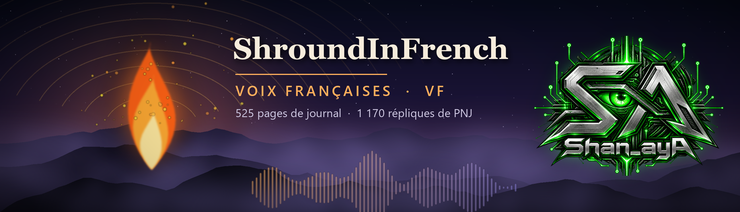
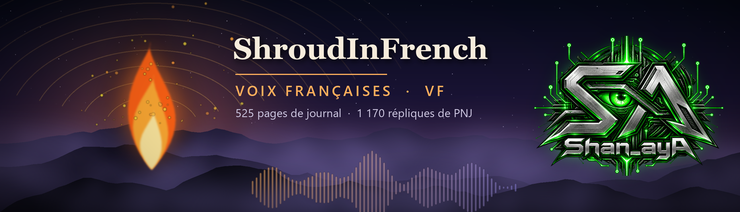
Renommage : le mod s'appelle ShroudInFrench (et non ShroundInFrench)
Sources, spec PyInstaller, README, notices et banniere alignes sur le nom ShroudInFrench.

Changed region(s): [[0.4351, 0.1698, 0.6838, 0.283]]

diff --git a/installer/shroud_installer.py b/installer/shroud_installer.py
@@ -1,7 +1,7 @@
 """Installateur LÉGER de la VF d'Enshrouded (voix françaises, emplacement « Français (VF) » du menu Langue du doublage).
 Interface française. Ne contient AUCUN fichier audio ni emm.exe : il utilise les archives téléchargées sur Nexus Mods
 (fichier principal = pages de journal ; complément optionnel = répliques des personnages) et l'outil emm.exe d'EML (GitHub).
-Il trouve le jeu (Steam), les archives et emm.exe, décompresse le mod dans <jeu>\\mods\\ShroundInFrench, applique le patch
+Il trouve le jeu (Steam), les archives et emm.exe, décompresse le mod dans <jeu>\\mods\\ShroudInFrench, applique le patch
 (emm.exe run -p) ou restaure l'original. Aucun accès réseau ; rien n'est modifié hors du dossier du jeu."""
 import json, os, re, shutil, subprocess, sys, threading, time, webbrowser, zipfile
 import tkinter as tk
@@ -9,7 +9,7 @@ from tkinter import filedialog, messagebox, scrolledtext, ttk
 
 VERSION = "2.0"
 APPID = "1203620"
-MOD_NAME = "ShroundInFrench"
+MOD_NAME = "ShroudInFrench"
 MOD_PREFIX = f"mods/{MOD_NAME}/"
 TESTED_BUILD = "26082781"   # build Steam (appmanifest) sur lequel la VF a été validée (version interne du jeu : 1273043)
 EML_URL = "https://github.com/Brabb3l/kfc-parser/releases"
@@ -30,7 +30,7 @@ IMPORTANT
 - Si l'installateur dit que la sauvegarde est périmée : Steam → clic droit sur Enshrouded → Propriétés → Fichiers installés → « Vérifier l'intégrité des fichiers du jeu », puis relancez l'installateur.
 
 CE QU'IL FAUT TÉLÉCHARGER
-- Sur Nexus Mods : le fichier principal « ShroundInFrench » (pages de journal) et, si vous voulez la voix des personnages, le fichier optionnel « PNJ ». Laissez les .zip tels quels dans « Téléchargements » : l'installateur les trouve seul (sinon « Parcourir… »).
+- Sur Nexus Mods : le fichier principal « ShroudInFrench » (pages de journal) et, si vous voulez la voix des personnages, le fichier optionnel « PNJ ». Laissez les .zip tels quels dans « Téléchargements » : l'installateur les trouve seul (sinon « Parcourir… »).
 - emm.exe (outil d'EML, par Brabb3l) : bouton « Où le télécharger ? » → GitHub → dernière version → « Assets » → emm.exe.
 """
 
@@ -110,7 +110,7 @@ def search_dirs(game=None):
 
 
 def zip_kind(path):
-    """'main' (contient mods/ShroundInFrench/mod.json), 'pnj' (fichiers n*.fqoa seuls) ou None. Lit seulement l'index du zip (rapide)."""
+    """'main' (contient mods/ShroudInFrench/mod.json), 'pnj' (fichiers n*.fqoa seuls) ou None. Lit seulement l'index du zip (rapide)."""
     try:
         with zipfile.ZipFile(path) as z:
             names = z.namelist()
@@ -155,7 +155,7 @@ def find_emm(game=None):
 
 
 def safe_members(z):
-    """Entrées du zip autorisées : uniquement sous mods/ShroundInFrench/, sans « .. » ni chemin absolu."""
+    """Entrées du zip autorisées : uniquement sous mods/ShroudInFrench/, sans « .. » ni chemin absolu."""
     out = []
     for i in z.infolist():
         n = i.filename.replace("\\", "/")
@@ -169,7 +169,7 @@ def safe_members(z):
 class App(tk.Tk):
     def __init__(self):
         super().__init__()
-        self.title(f"ShroundInFrench — installateur {VERSION}")
+        self.title(f"ShroudInFrench — installateur {VERSION}")
         self.geometry("780x880"); self.minsize(700, 760)
         self.game = None; self.busy = False; self.opt_pnj = True
         try:   # bandeau (illustration + logo Shan_ayA) embarqué dans l'exe (assets\entete.png)
@@ -188,7 +188,7 @@ class App(tk.Tk):
         ttk.Button(box, text="Où le télécharger ?", command=lambda: webbrowser.open(EML_URL)).grid(row=1, column=3, padx=(6, 0))
         ttk.Label(box, text="Fichier principal :").grid(row=2, column=0, sticky="w", pady=2)
         ttk.Entry(box, textvariable=self.var_main).grid(row=2, column=1, sticky="ew", padx=6)
-        ttk.Button(box, text="Parcourir…", command=lambda: self.browse_file(self.var_main, "Archive principale « ShroundInFrench » (.zip)", [("Archives", "*.zip")])).grid(row=2, column=2)
+        ttk.Button(box, text="Parcourir…", command=lambda: self.browse_file(self.var_main, "Archive principale « ShroudInFrench » (.zip)", [("Archives", "*.zip")])).grid(row=2, column=2)
         ttk.Label(box, text="Complément PNJ :").grid(row=3, column=0, sticky="w", pady=2)
         ttk.Entry(box, textvariable=self.var_pnjzip).grid(row=3, column=1, sticky="ew", padx=6)
         ttk.Button(box, text="Parcourir…", command=lambda: self.browse_file(self.var_pnjzip, "Archive optionnelle « PNJ » (.zip)", [("Archives", "*.zip")])).grid(row=3, column=2)
@@ -264,9 +264,9 @@ class App(tk.Tk):
     def run(self, fn):
         if self.busy: return
         self.refresh()
-        if not self.game: messagebox.showwarning("ShroundInFrench", "Choisissez d'abord le dossier du jeu."); return
-        if game_running(): messagebox.showwarning("ShroundInFrench", "Enshrouded est lancé. Fermez le jeu complètement puis réessayez."); return
-        if not os.path.isfile(self.var_emm.get().strip()): messagebox.showerror("ShroundInFrench", "emm.exe (EML) est introuvable.\nUtilisez « Où le télécharger ? », puis « Parcourir… »."); return
+        if not self.game: messagebox.showwarning("ShroudInFrench", "Choisissez d'abord le dossier du jeu."); return
+        if game_running(): messagebox.showwarning("ShroudInFrench", "Enshrouded est lancé. Fermez le jeu complètement puis réessayez."); return
+        if not os.path.isfile(self.var_emm.get().strip()): messagebox.showerror("ShroudInFrench", "emm.exe (EML) est introuvable.\nUtilisez « Où le télécharger ? », puis « Parcourir… »."); return
         self.opt_pnj = bool(self.var_pnj.get())
         self.emm_path = self.var_emm.get().strip(); self.zip_main = self.var_main.get().strip(); self.zip_pnj = self.var_pnjzip.get().strip()
         self.busy = True; self.btn_install.state(["disabled"]); self.btn_uninstall.state(["disabled"])
@@ -300,7 +300,7 @@ class App(tk.Tk):
         have_main_zip, have_pnj_zip = os.path.isfile(main), os.path.isfile(pnjz)
         mod_dst = self.mod_dir(game); pre_existing = os.path.isfile(os.path.join(mod_dst, "mod.json")) and not self.installed(game)
         if not have_main_zip and not pre_existing:
-            self.say("Fichier principal introuvable : téléchargez « ShroundInFrench » sur Nexus Mods (ou choisissez le .zip avec « Parcourir… »)."); return
+            self.say("Fichier principal introuvable : téléchargez « ShroudInFrench » sur Nexus Mods (ou choisissez le .zip avec « Parcourir… »)."); return
         if have_main_zip and zip_kind(main) != "main": self.say("Le fichier choisi comme « principal » n'est pas l'archive principale de la VF."); return
         if have_pnj_zip and zip_kind(pnjz) != "pnj": self.say("Le fichier choisi comme « PNJ » n'est pas l'archive des répliques de personnages."); return
         use_pnj = self.opt_pnj

diff --git a/README.md b/README.md
@@ -1,24 +1,24 @@
 # enshrouded-vf-installer
 
-**FR** — Code source de l'installateur du mod **ShroundInFrench**, des voix françaises pour *Enshrouded* (525 pages de journal en fichier principal, 1 170 répliques de personnages en fichier optionnel).
-**EN** — Source code of the installer for **ShroundInFrench**, a French voice-over mod for *Enshrouded* (525 journal pages as the main file, 1,170 NPC lines as an optional file).
+**FR** — Code source de l'installateur du mod **ShroudInFrench**, des voix françaises pour *Enshrouded* (525 pages de journal en fichier principal, 1 170 répliques de personnages en fichier optionnel).
+**EN** — Source code of the installer for **ShroudInFrench**, a French voice-over mod for *Enshrouded* (525 journal pages as the main file, 1,170 NPC lines as an optional file).
 
 Ce dépôt **ne contient ni les fichiers audio du mod, ni `emm.exe`** : l'installateur utilise les archives téléchargées sur Nexus Mods et l'outil `emm.exe` d'EML. Il sert à vérifier ce que fait l'installateur et à le recompiler. / This repository contains **neither the mod's audio files nor `emm.exe`**; the installer uses the archives downloaded from Nexus Mods and EML's `emm.exe`.
 
 ## Ce que fait l'installateur / What it does
 
-Fenêtre Tk (Python, interface en français). Tout est dans [`installer/shround_installer.py`](installer/shround_installer.py) (~330 lignes) :
+Fenêtre Tk (Python, interface en français). Tout est dans [`installer/shroud_installer.py`](installer/shroud_installer.py) (~330 lignes) :
 
 1. **Détecte le jeu** : registre Steam + `libraryfolders.vdf` + `appmanifest_1203620.acf` (build Steam affiché). Choix manuel possible.
-2. **Trouve les archives et `emm.exe`** dans Téléchargements, Bureau, le dossier de l'installateur et celui du jeu ; les archives sont reconnues **par leur contenu** (pas par leur nom) : « principale » = contient `mods/ShroundInFrench/mod.json`, « PNJ » = fichiers `n*.fqoa` seuls.
-3. **Installer** : décompresse **uniquement** les entrées sous `mods/ShroundInFrench/` (sans `..` ni chemin absolu) dans le dossier du jeu, puis lance **`emm.exe run -p -g <jeu>`** ([EML](https://github.com/Brabb3l/kfc-parser), GPL-3.0) qui applique le patch (jeu fermé). Écrit `<jeu>\vf_install.json`. Une case permet d'inclure ou non les répliques de personnages.
-4. **Désinstaller** : `emm.exe restore -g <jeu>` (restaure `enshrouded.kfc` depuis `enshrouded.kfc.bak`), supprime `mods\ShroundInFrench` et les fichiers `enshrouded_055.dat`+ ajoutés par le patch. Refuse de restaurer si le jeu a été mis à jour depuis (sauvegarde périmée) et renvoie vers « Vérifier l'intégrité des fichiers du jeu » dans Steam.
+2. **Trouve les archives et `emm.exe`** dans Téléchargements, Bureau, le dossier de l'installateur et celui du jeu ; les archives sont reconnues **par leur contenu** (pas par leur nom) : « principale » = contient `mods/ShroudInFrench/mod.json`, « PNJ » = fichiers `n*.fqoa` seuls.
+3. **Installer** : décompresse **uniquement** les entrées sous `mods/ShroudInFrench/` (sans `..` ni chemin absolu) dans le dossier du jeu, puis lance **`emm.exe run -p -g <jeu>`** ([EML](https://github.com/Brabb3l/kfc-parser), GPL-3.0) qui applique le patch (jeu fermé). Écrit `<jeu>\vf_install.json`. Une case permet d'inclure ou non les répliques de personnages.
+4. **Désinstaller** : `emm.exe restore -g <jeu>` (restaure `enshrouded.kfc` depuis `enshrouded.kfc.bak`), supprime `mods\ShroudInFrench` et les fichiers `enshrouded_055.dat`+ ajoutés par le patch. Refuse de restaurer si le jeu a été mis à jour depuis (sauvegarde périmée) et renvoie vers « Vérifier l'intégrité des fichiers du jeu » dans Steam.
 
 **Ce qu'il ne fait pas** : aucun accès réseau, aucune télémétrie, aucun droit administrateur, aucune modification hors du dossier du jeu (ni registre, ni réglages Windows, ni sauvegardes de parties). Le seul lien externe : les boutons « Où le télécharger ? » et « Payez-moi un café » ouvrent une page dans le navigateur, sur clic. Il lance deux programmes : `tasklist` (pour vérifier que le jeu est fermé) et `emm.exe`.
 
 ## Installation sans l'installateur / Without the installer
 
-Fermez le jeu, décompressez les archives du mod dans le dossier du jeu (elles créent `mods\ShroundInFrench\`), puis `emm.exe run -p -g "<dossier du jeu>"` (ou copiez `dbghelp.dll` d'EML à côté de `enshrouded.exe` et lancez le jeu). Désinstallation : `emm.exe restore -g "<dossier du jeu>"` et suppression de `mods\ShroundInFrench`. Détail : [`docs/LISEZMOI_principal.txt`](docs/LISEZMOI_principal.txt).
+Fermez le jeu, décompressez les archives du mod dans le dossier du jeu (elles créent `mods\ShroudInFrench\`), puis `emm.exe run -p -g "<dossier du jeu>"` (ou copiez `dbghelp.dll` d'EML à côté de `enshrouded.exe` et lancez le jeu). Désinstallation : `emm.exe restore -g "<dossier du jeu>"` et suppression de `mods\ShroudInFrench`. Détail : [`docs/LISEZMOI_principal.txt`](docs/LISEZMOI_principal.txt).
 
 ## Compiler / Build
 
@@ -26,12 +26,12 @@ Prérequis : Windows x64, **Python 3.14** (avec tkinter), `pip install pyinstall
 
 ```powershell
 .\build_installer.ps1 -Python "C:\Program Files\Python314\python.exe"
-# -> dist\ShroundInFrench_Installateur\ShroundInFrench_Installateur.exe  (mode onedir)
+# -> dist\ShroudInFrench_Installateur\ShroudInFrench_Installateur.exe  (mode onedir)
 ```
 
 Le script fait deux choses :
 1. `build\extract_tcl_tk.py` extrait les bibliothèques **Tcl/Tk 9** (embarquées en `zipfs` dans la DLL de Python 3.14) vers `build\tclx\` — le crochet de PyInstaller 6.20 ne les trouve pas seul avec Tcl/Tk 9 ;
-2. PyInstaller compile avec [`build\ShroundInFrench_Installateur.spec`](build/ShroundInFrench_Installateur.spec), qui embarque ces bibliothèques (`_tcl_data`, `_tk_data`) et l'image d'en-tête (`installer/assets/entete.png`).
+2. PyInstaller compile avec [`build\ShroudInFrench_Installateur.spec`](build/ShroudInFrench_Installateur.spec), qui embarque ces bibliothèques (`_tcl_data`, `_tk_data`) et l'image d'en-tête (`installer/assets/entete.png`).
 
 > Les exécutables PyInstaller sont parfois signalés à tort par des antivirus (faux positifs) ; le dossier `_internal` contient notamment `base_library.zip` (bibliothèque standard Python). Si besoin, installez sans l'installateur (voir ci-dessus).
 
@@ -39,10 +39,12 @@ Le script fait deux choses :
 
 - [`docs/LISEZMOI_principal.txt`](docs/LISEZMOI_principal.txt) — notice du fichier principal (installation avec EML, désinstallation, limites).
 - [`docs/LISEZMOI_PNJ.txt`](docs/LISEZMOI_PNJ.txt) — notice du fichier optionnel « répliques des personnages ».
-- [`docs/banniere_shroundinfrench_1300x372.png`](docs/banniere_shroundinfrench_1300x372.png) — bannière du mod.
+- [`docs/banniere_shroudinfrench_1300x372.png`](docs/banniere_shroudinfrench_1300x372.png) — bannière du mod.
 
 ## Licences
 
 - Code de ce dépôt : **MIT** ([LICENSE](LICENSE)).
 - Les voix du mod (non incluses ici) sont générées avec XTTS-v2 (Coqui, licence **CPML** : usage non commercial). Projet de fan, non affilié à Keen Games ; il faut posséder le jeu.
 - EML / `emm.exe` : Brabb3l, **GPL-3.0** — non inclus ici.
+
+
